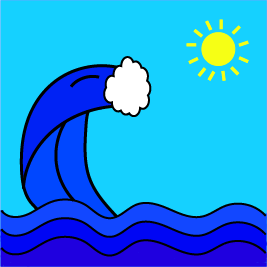
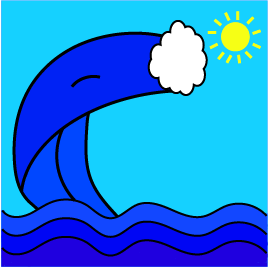
f

diff --git a/public/index.html b/public/index.html
@@ -20,20 +20,20 @@
 
         <div class="row">
             <div class="image-container"><img id="wave" src="img/icon1final.png" height="200" width="200"/></div>
-            <div class="image-container"><img src="img/tri.png" height="200" width="200"/></div>
-            <div class="image-container"><img src="img/squ.png" height="200" width="200"/></div>
+            <div class="image-container"><img id="train" src="img/icon2final.png" height="200" width="200"/></div>
+            <div class="image-container"><img id="bike" src="img/icon3final.png" height="200" width="200"/></div>
         </div>
 
         <div class="row">
-            <div class="image-container"><img src="img/hex.png" height="200" width="200"/></div>
-            <div class="image-container"><img src="img/rec.png" height="200" width="200"/></div>
-            <div class="image-container"><img src="img/sta.png" height="200" width="200"/></div>
+            <div class="image-container"><img id="plane" src="img/icon4final.png" height="200" width="200"/></div>
+            <div class="image-container"><img id="bird" src="img/icon5final.png" height="200" width="200"/></div>
+            <div class="image-container"><img id="ship" src="img/icon6final.png" height="200" width="200"/></div>
             </div>
 
         <div class="row">
-            <div class="image-container"><img src="img/trr.png" height="200" width="200"/></div>
-            <div class="image-container"><img src="img/sqr.png" height="200" width="200"/></div>
-            <div class="image-container"><img src="img/her.png" height="200" width="200"/></div>
+            <div class="image-container"><img id="throwing" src="img/icon7final.png" height="200" width="200"/></div>
+            <div class="image-container"><img id="kicking" src="img/icon8final.png" height="200" width="200"/></div>
+            <div class="image-container"><img id="tank" src="img/icon9final.png" height="200" width="200"/></div>
         </div>
         
     </body>
@@ -44,7 +44,7 @@
 <script>
     const wave_element = document.getElementById ("wave")
     document.getElementById ("wave").onpointerover = () => {
-        document.getElementById ("wave").src = "img/iterate1.png"
+        document.getElementById ("wave").src = "img/interactive1.png"
     }
     document.getElementById ("wave").onpointerout = () => {
         document.getElementById ("wave").src = "img/icon1final.png"
@@ -54,6 +54,142 @@
     slide_sound.src = "img/PropPlaneStart.mp3"
 
     document.getElementById ("wave").onpointerdown = () => {
+        slide_sound.play ()
+    }
+</script>
+
+<script>
+    const wave_element = document.getElementById ("train")
+    document.getElementById ("train").onpointerover = () => {
+        document.getElementById ("train").src = "img/interactive2.png"
+    }
+    document.getElementById ("train").onpointerout = () => {
+        document.getElementById ("train").src = "img/icon2final.png"
+    }
+
+    const slide_sound = document.createElement ("audio")
+    slide_sound.src = "img/PropPlaneStart.mp3"
+
+    document.getElementById ("train").onpointerdown = () => {
+        slide_sound.play ()
+    }
+</script>
+
+<script>
+    const wave_element = document.getElementById ("bike")
+    document.getElementById ("bike").onpointerover = () => {
+        document.getElementById ("bike").src = "img/interactive3.png"
+    }
+    document.getElementById ("bike").onpointerout = () => {
+        document.getElementById ("bike").src = "img/icon3final.png"
+    }
+
+    const slide_sound = document.createElement ("audio")
+    slide_sound.src = "img/PropPlaneStart.mp3"
+
+    document.getElementById ("bike").onpointerdown = () => {
+        slide_sound.play ()
+    }
+</script>
+
+<script>
+    const wave_element = document.getElementById ("plane")
+    document.getElementById ("plane").onpointerover = () => {
+        document.getElementById ("plane").src = "img/interactive4.png"
+    }
+    document.getElementById ("plane").onpointerout = () => {
+        document.getElementById ("plane").src = "img/icon4final.png"
+    }
+
+    const slide_sound = document.createElement ("audio")
+    slide_sound.src = "img/PropPlaneStart.mp3"
+
+    document.getElementById ("plane").onpointerdown = () => {
+        slide_sound.play ()
+    }
+</script>
+
+<script>
+    const wave_element = document.getElementById ("bird")
+    document.getElementById ("bird").onpointerover = () => {
+        document.getElementById ("bird").src = "img/interactive5.png"
+    }
+    document.getElementById ("train").onpointerout = () => {
+        document.getElementById ("train").src = "img/icon5final.png"
+    }
+
+    const slide_sound = document.createElement ("audio")
+    slide_sound.src = "img/PropPlaneStart.mp3"
+
+    document.getElementById ("bird").onpointerdown = () => {
+        slide_sound.play ()
+    }
+</script>
+
+<script>
+    const wave_element = document.getElementById ("ship")
+    document.getElementById ("ship").onpointerover = () => {
+        document.getElementById ("ship").src = "img/interactive6.png"
+    }
+    document.getElementById ("ship").onpointerout = () => {
+        document.getElementById ("ship").src = "img/icon6final.png"
+    }
+
+    const slide_sound = document.createElement ("audio")
+    slide_sound.src = "img/PropPlaneStart.mp3"
+
+    document.getElementById ("ship").onpointerdown = () => {
+        slide_sound.play ()
+    }
+</script>
+
+<script>
+    const wave_element = document.getElementById ("throwing")
+    document.getElementById ("throwing").onpointerover = () => {
+        document.getElementById ("throwing").src = "img/interactive7.png"
+    }
+    document.getElementById ("throwing").onpointerout = () => {
+        document.getElementById ("throwing").src = "img/icon7final.png"
+    }
+
+    const slide_sound = document.createElement ("audio")
+    slide_sound.src = "img/PropPlaneStart.mp3"
+
+    document.getElementById ("throwing").onpointerdown = () => {
+        slide_sound.play ()
+    }
+</script>
+
+<script>
+    const wave_element = document.getElementById ("kicking")
+    document.getElementById ("kicking").onpointerover = () => {
+        document.getElementById ("kicking").src = "img/interactive8.png"
+    }
+    document.getElementById ("kicking").onpointerout = () => {
+        document.getElementById ("kicking").src = "img/icon8final.png"
+    }
+
+    const slide_sound = document.createElement ("audio")
+    slide_sound.src = "img/PropPlaneStart.mp3"
+
+    document.getElementById ("kicking").onpointerdown = () => {
+        slide_sound.play ()
+    }
+</script>
+
+<script>
+    const wave_element = document.getElementById ("tank")
+    document.getElementById ("tank").onpointerover = () => {
+        document.getElementById ("tank").src = "img/interactive9.png"
+    }
+    document.getElementById ("tank").onpointerout = () => {
+        document.getElementById ("tank").src = "img/icon9final.png"
+    }
+
+    const slide_sound = document.createElement ("audio")
+    slide_sound.src = "img/PropPlaneStart.mp3"
+
+    document.getElementById ("tank").onpointerdown = () => {
         slide_sound.play ()
     }
 </script>
